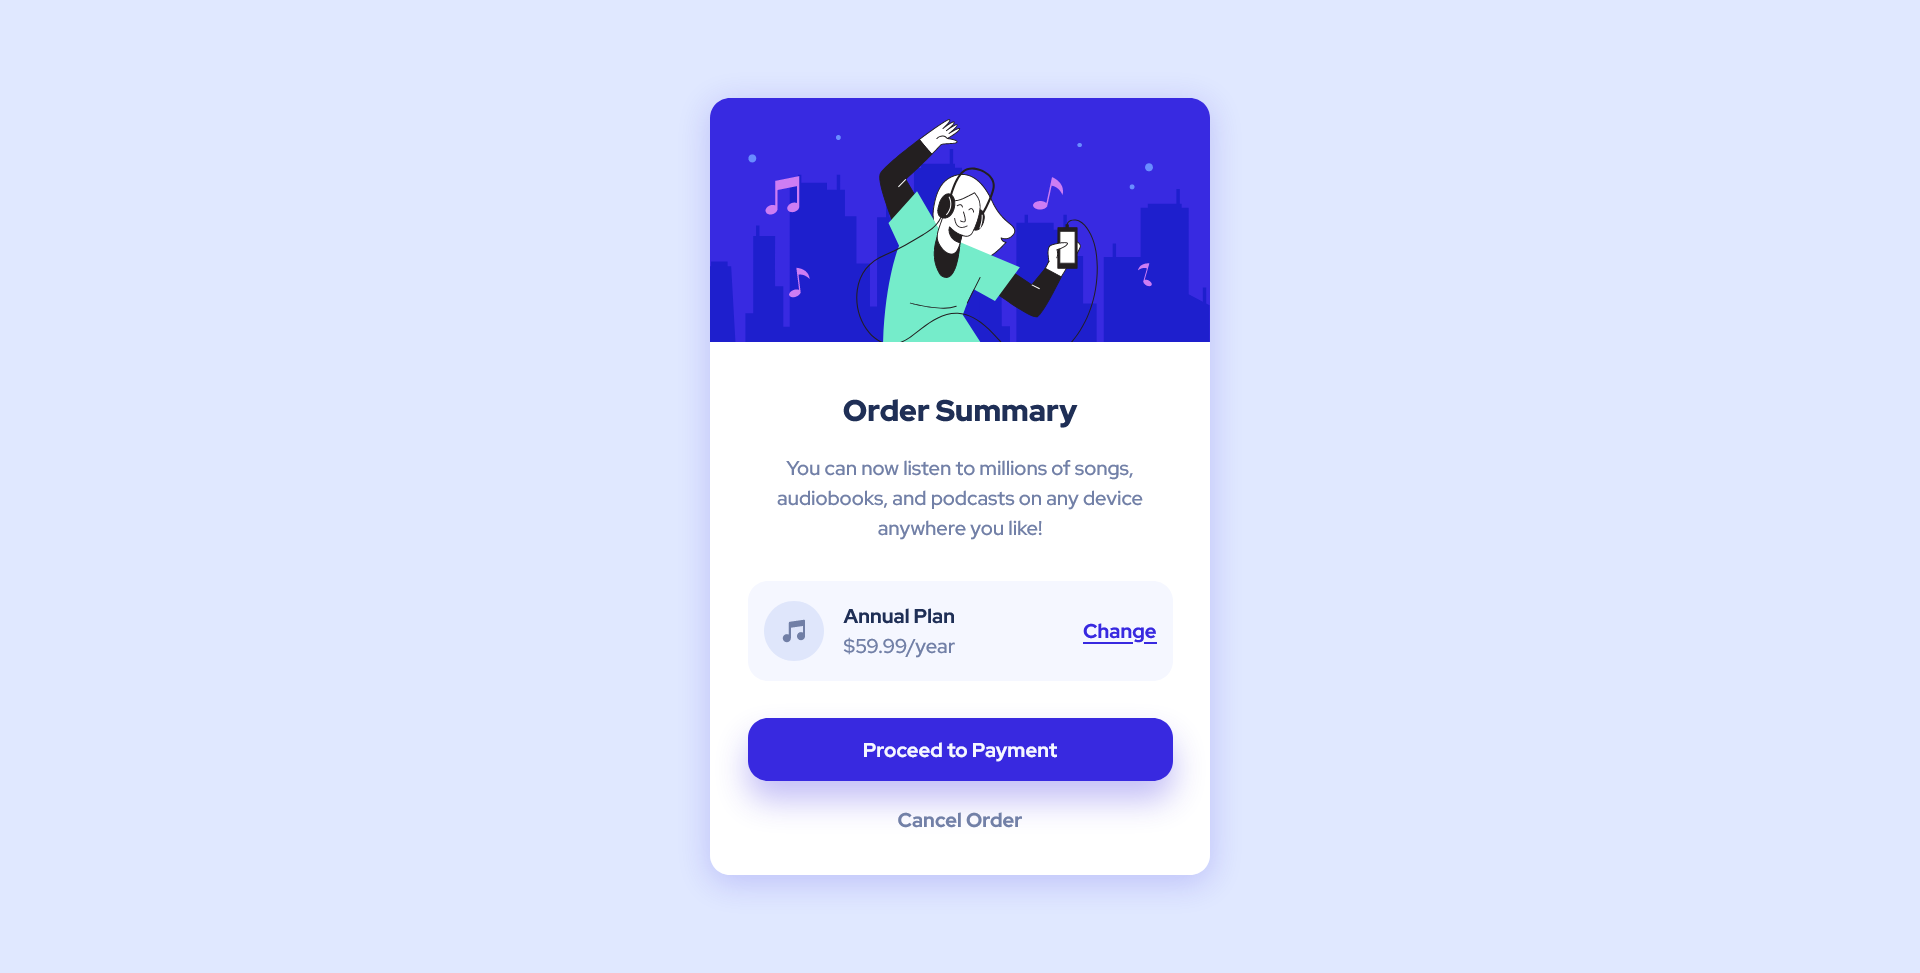
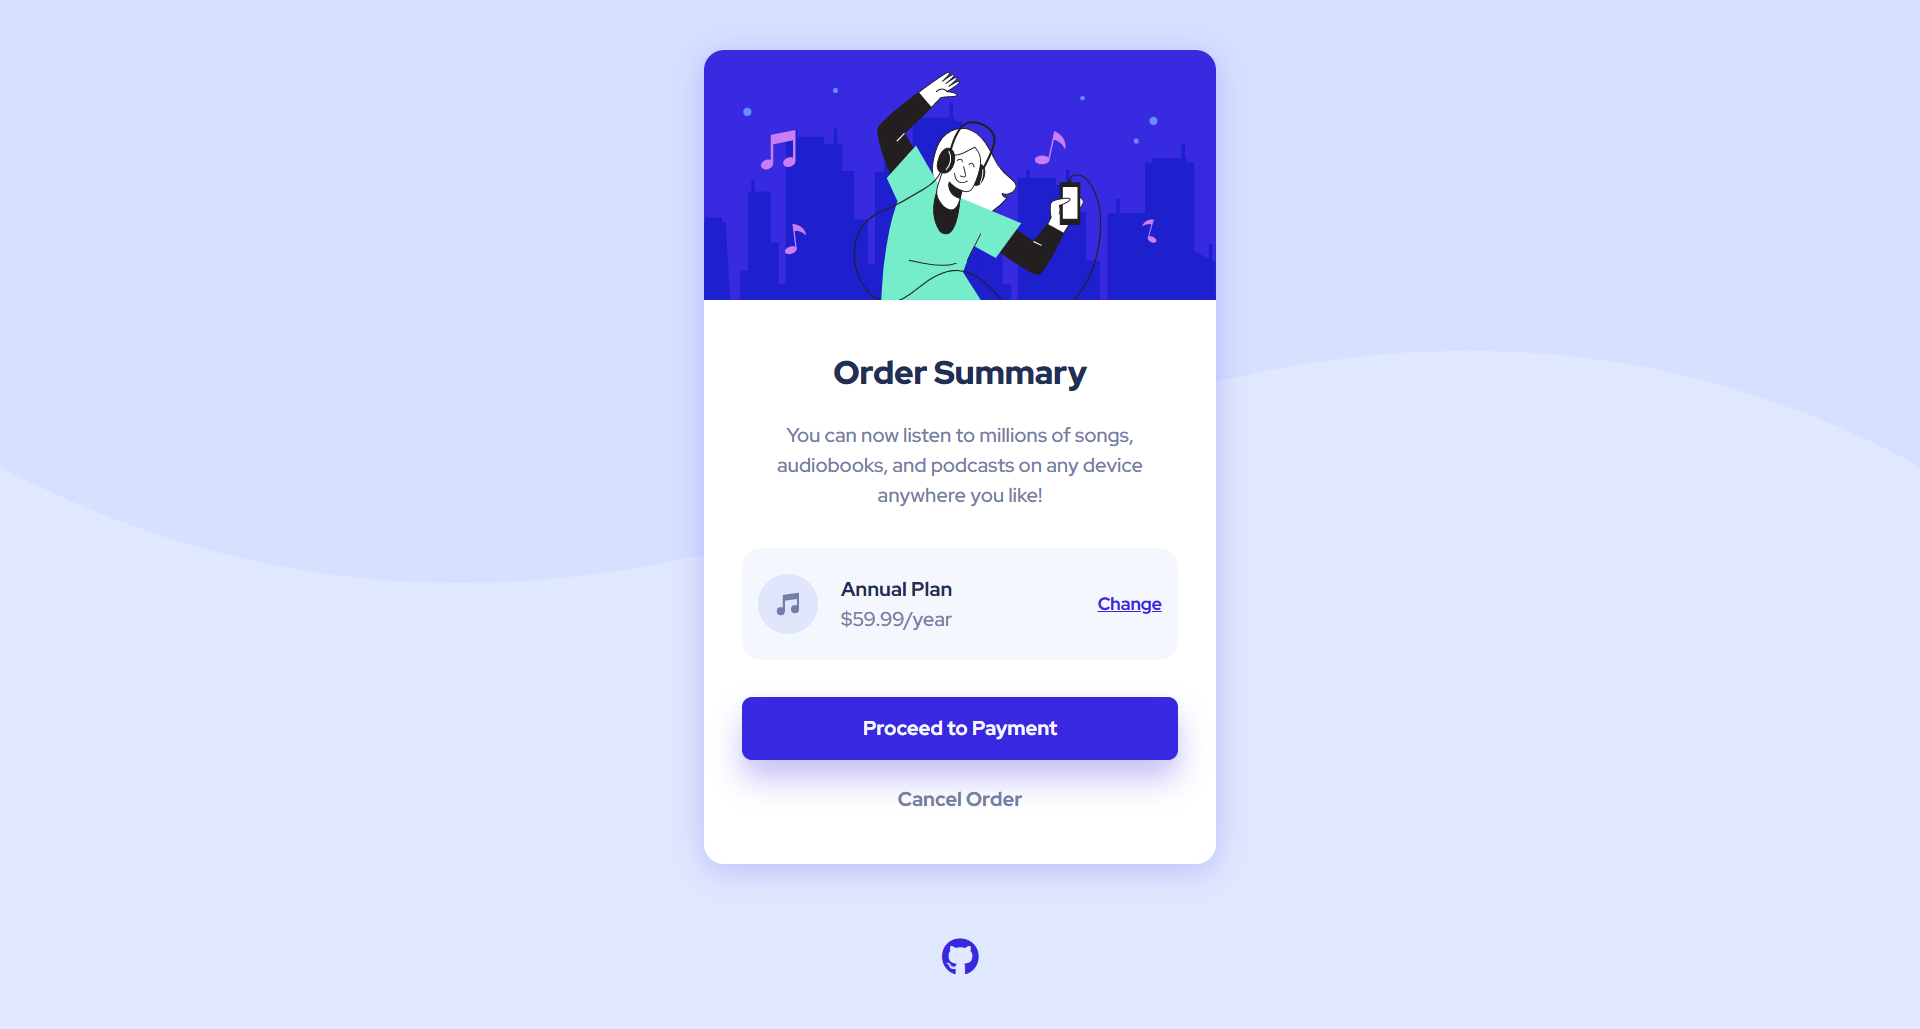
Update README and solution screenshot

Changed region(s): [[0.3438, 0.0308, 0.6562, 0.9558], [0.5625, 0.5858, 0.625, 0.6166]]

diff --git a/README.md b/README.md
@@ -3,14 +3,16 @@
 
 ## Links
 - [Challenge Link](https://www.frontendmentor.io/challenges/order-summary-component-QlPmajDUj)
-- [Site Preview](https://robinjmm-order-summary.netlify.app/)
+- [Site Preview](https://robinjmm-order-summary.vercel.app/)
 
 ## About
-This is my 4th completed challenge from [Frontendmentor.io](https://frontendmentor.io).
+This is my solution for the challenge of building an Order Summary Card component from [Frontendmentor.io](https://frontendmentor.io).
 
 The goal of the challenge is to recreate the design and layout of an order summary component. Included in the challenge are elements in the component that change appearance and color when hovered over. It served as good practice for using the **transition** property to smooth out the appearance changes.
 
-Any feedback on my code is appreciated.
+## User Stories
+The user should be able to:
+- See hover states for interactive elements.
 
 ## Built with
 - HTML5
@@ -18,5 +20,29 @@ Any feedback on my code is appreciated.
 - Flexbox
 - Sass
 
-## Acknowledgements
-I'm very grateful to Frontendmentor.io for providing designs and challenges that help me improve my skills as a web developer.
+## Usage
+You can download the project files by clicking on the green **Code** button, then select **Download Zip**.
+
+Once you finish extracting, open the terminal, move into the project directory, and type the following code:
+
+```
+npm install
+```
+
+This will install all the required dependencies.
+
+To compile Sass into CSS and watch for any future changes, type the following code in your terminal:
+
+
+```
+npm run sass
+```
+
+To compile Sass into a minified version of CSS, run:
+
+```
+npm run prod
+```
+
+## Acknowledgement
+I'm very grateful to the people at [Frontendmentor.io](https://frontendmentor.io) for providing designs and challenges that help me improve my skills as a web developer.
